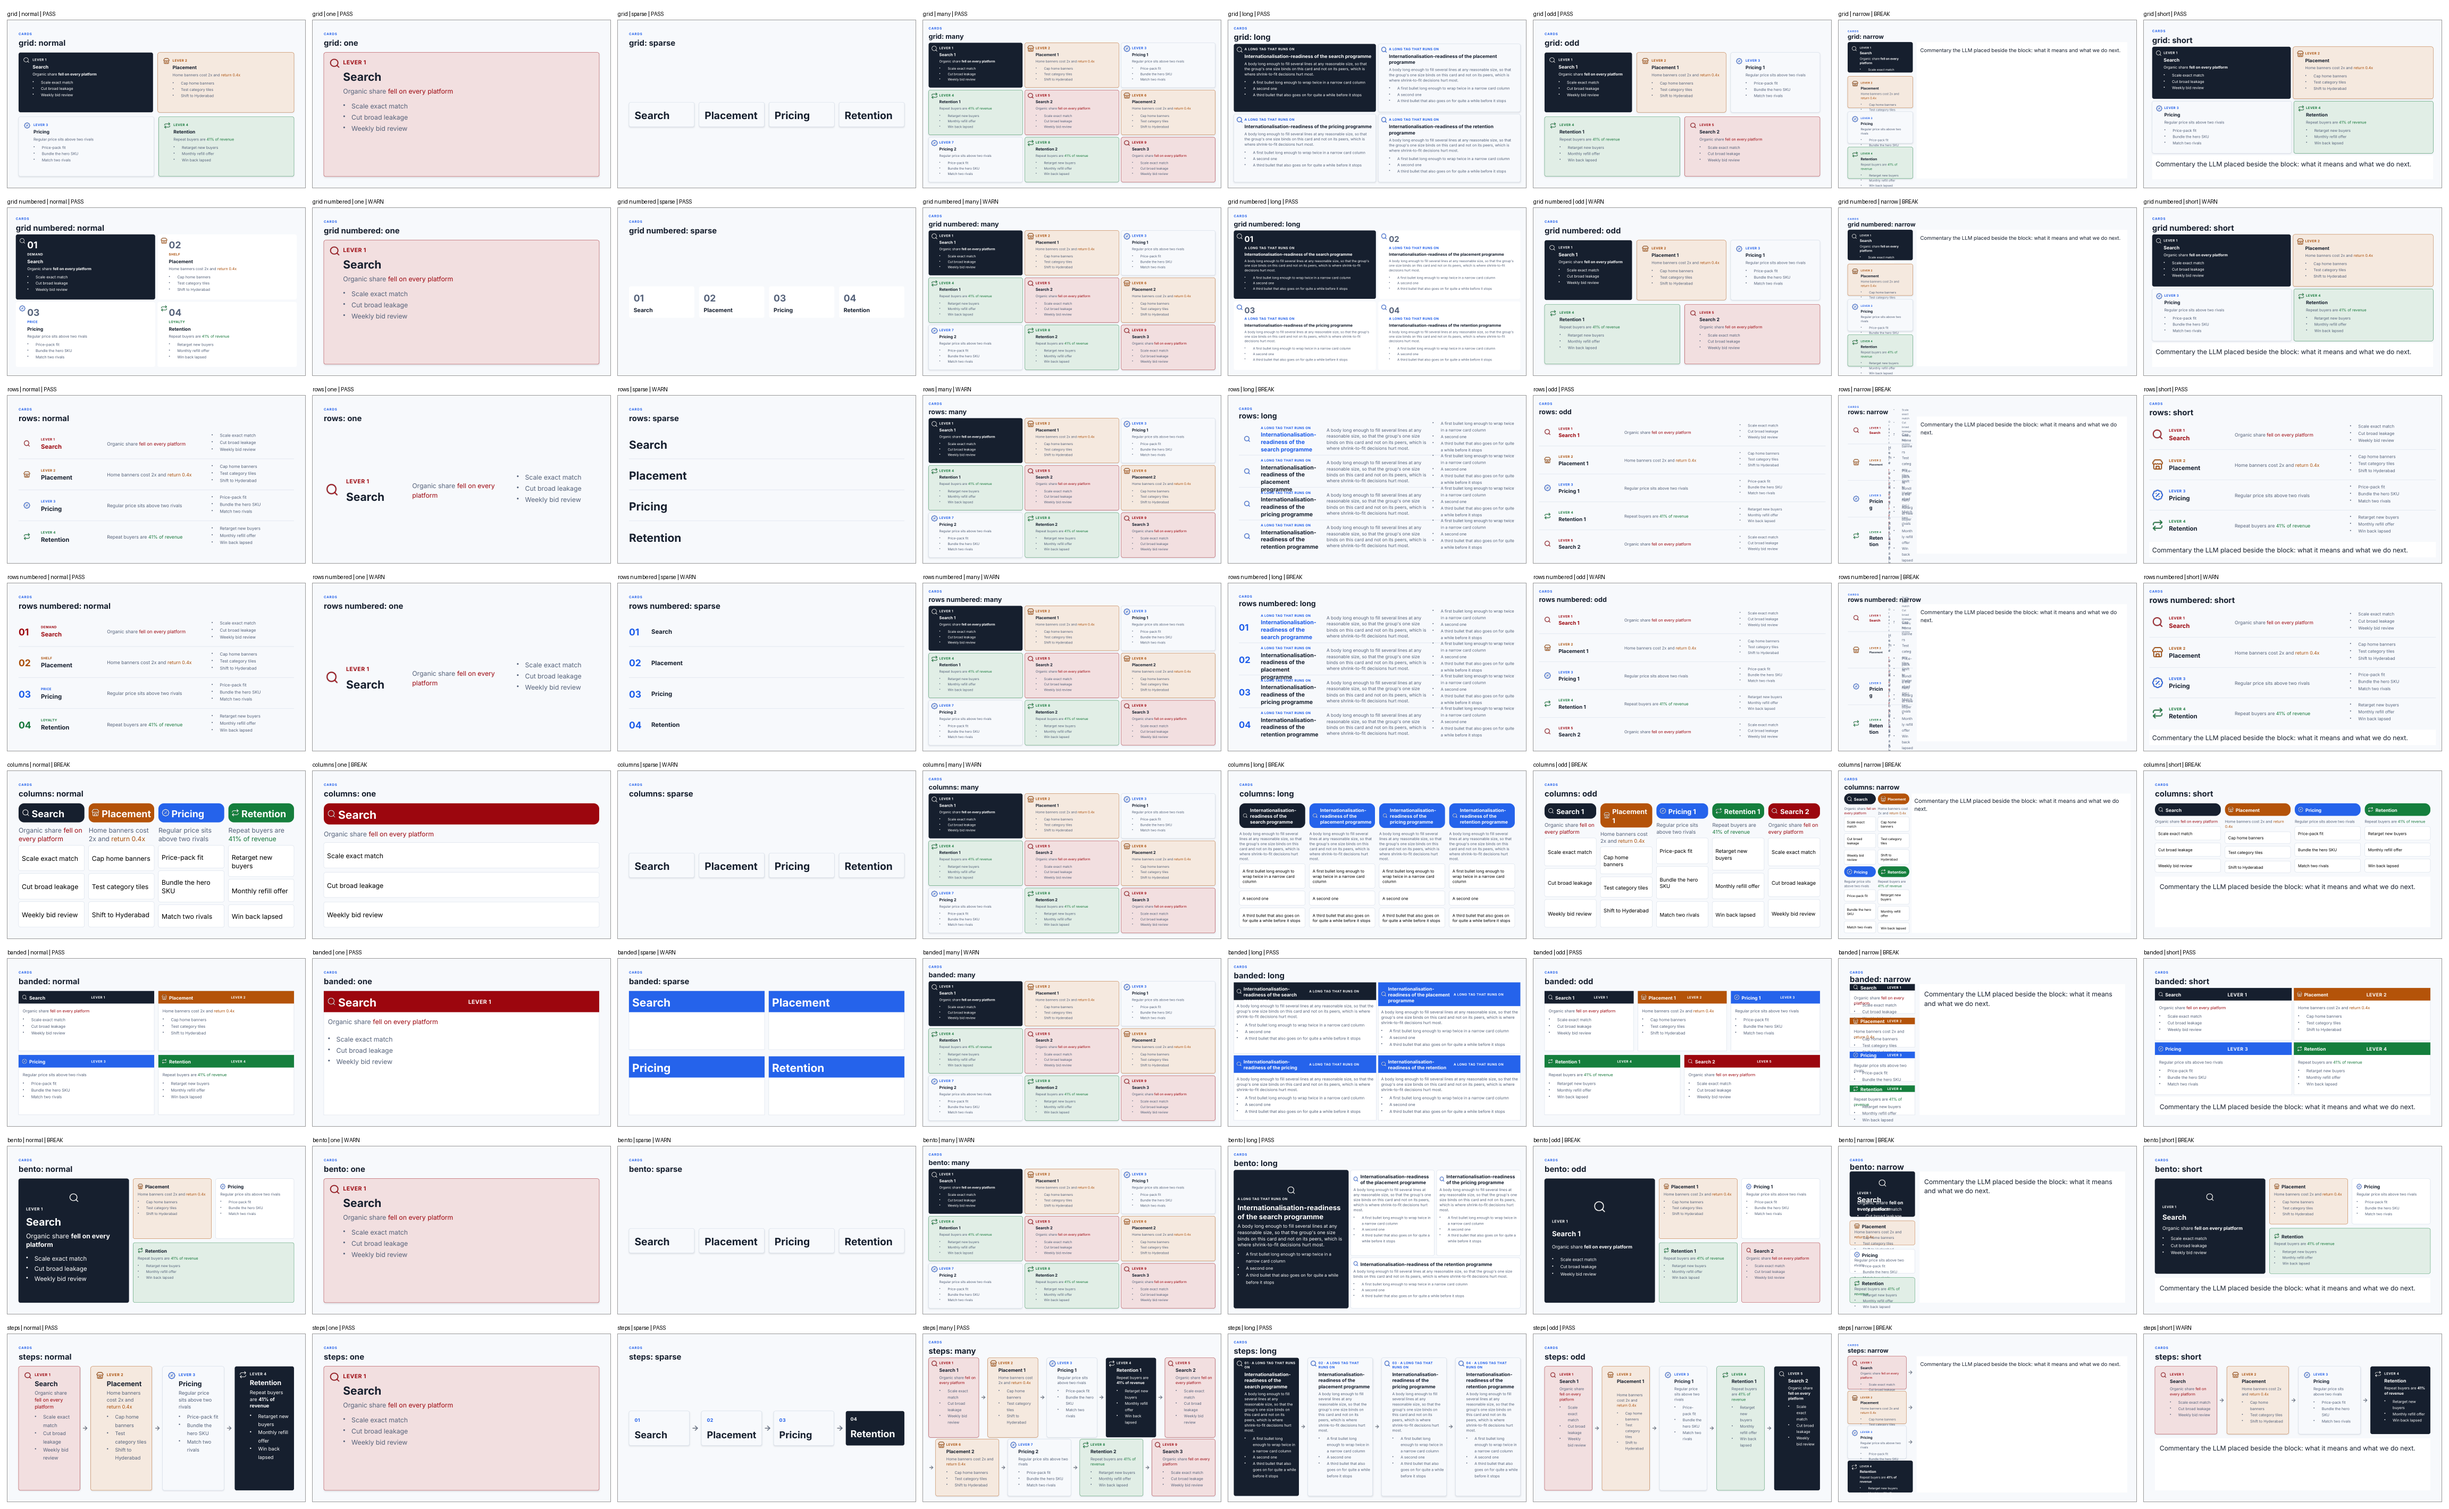
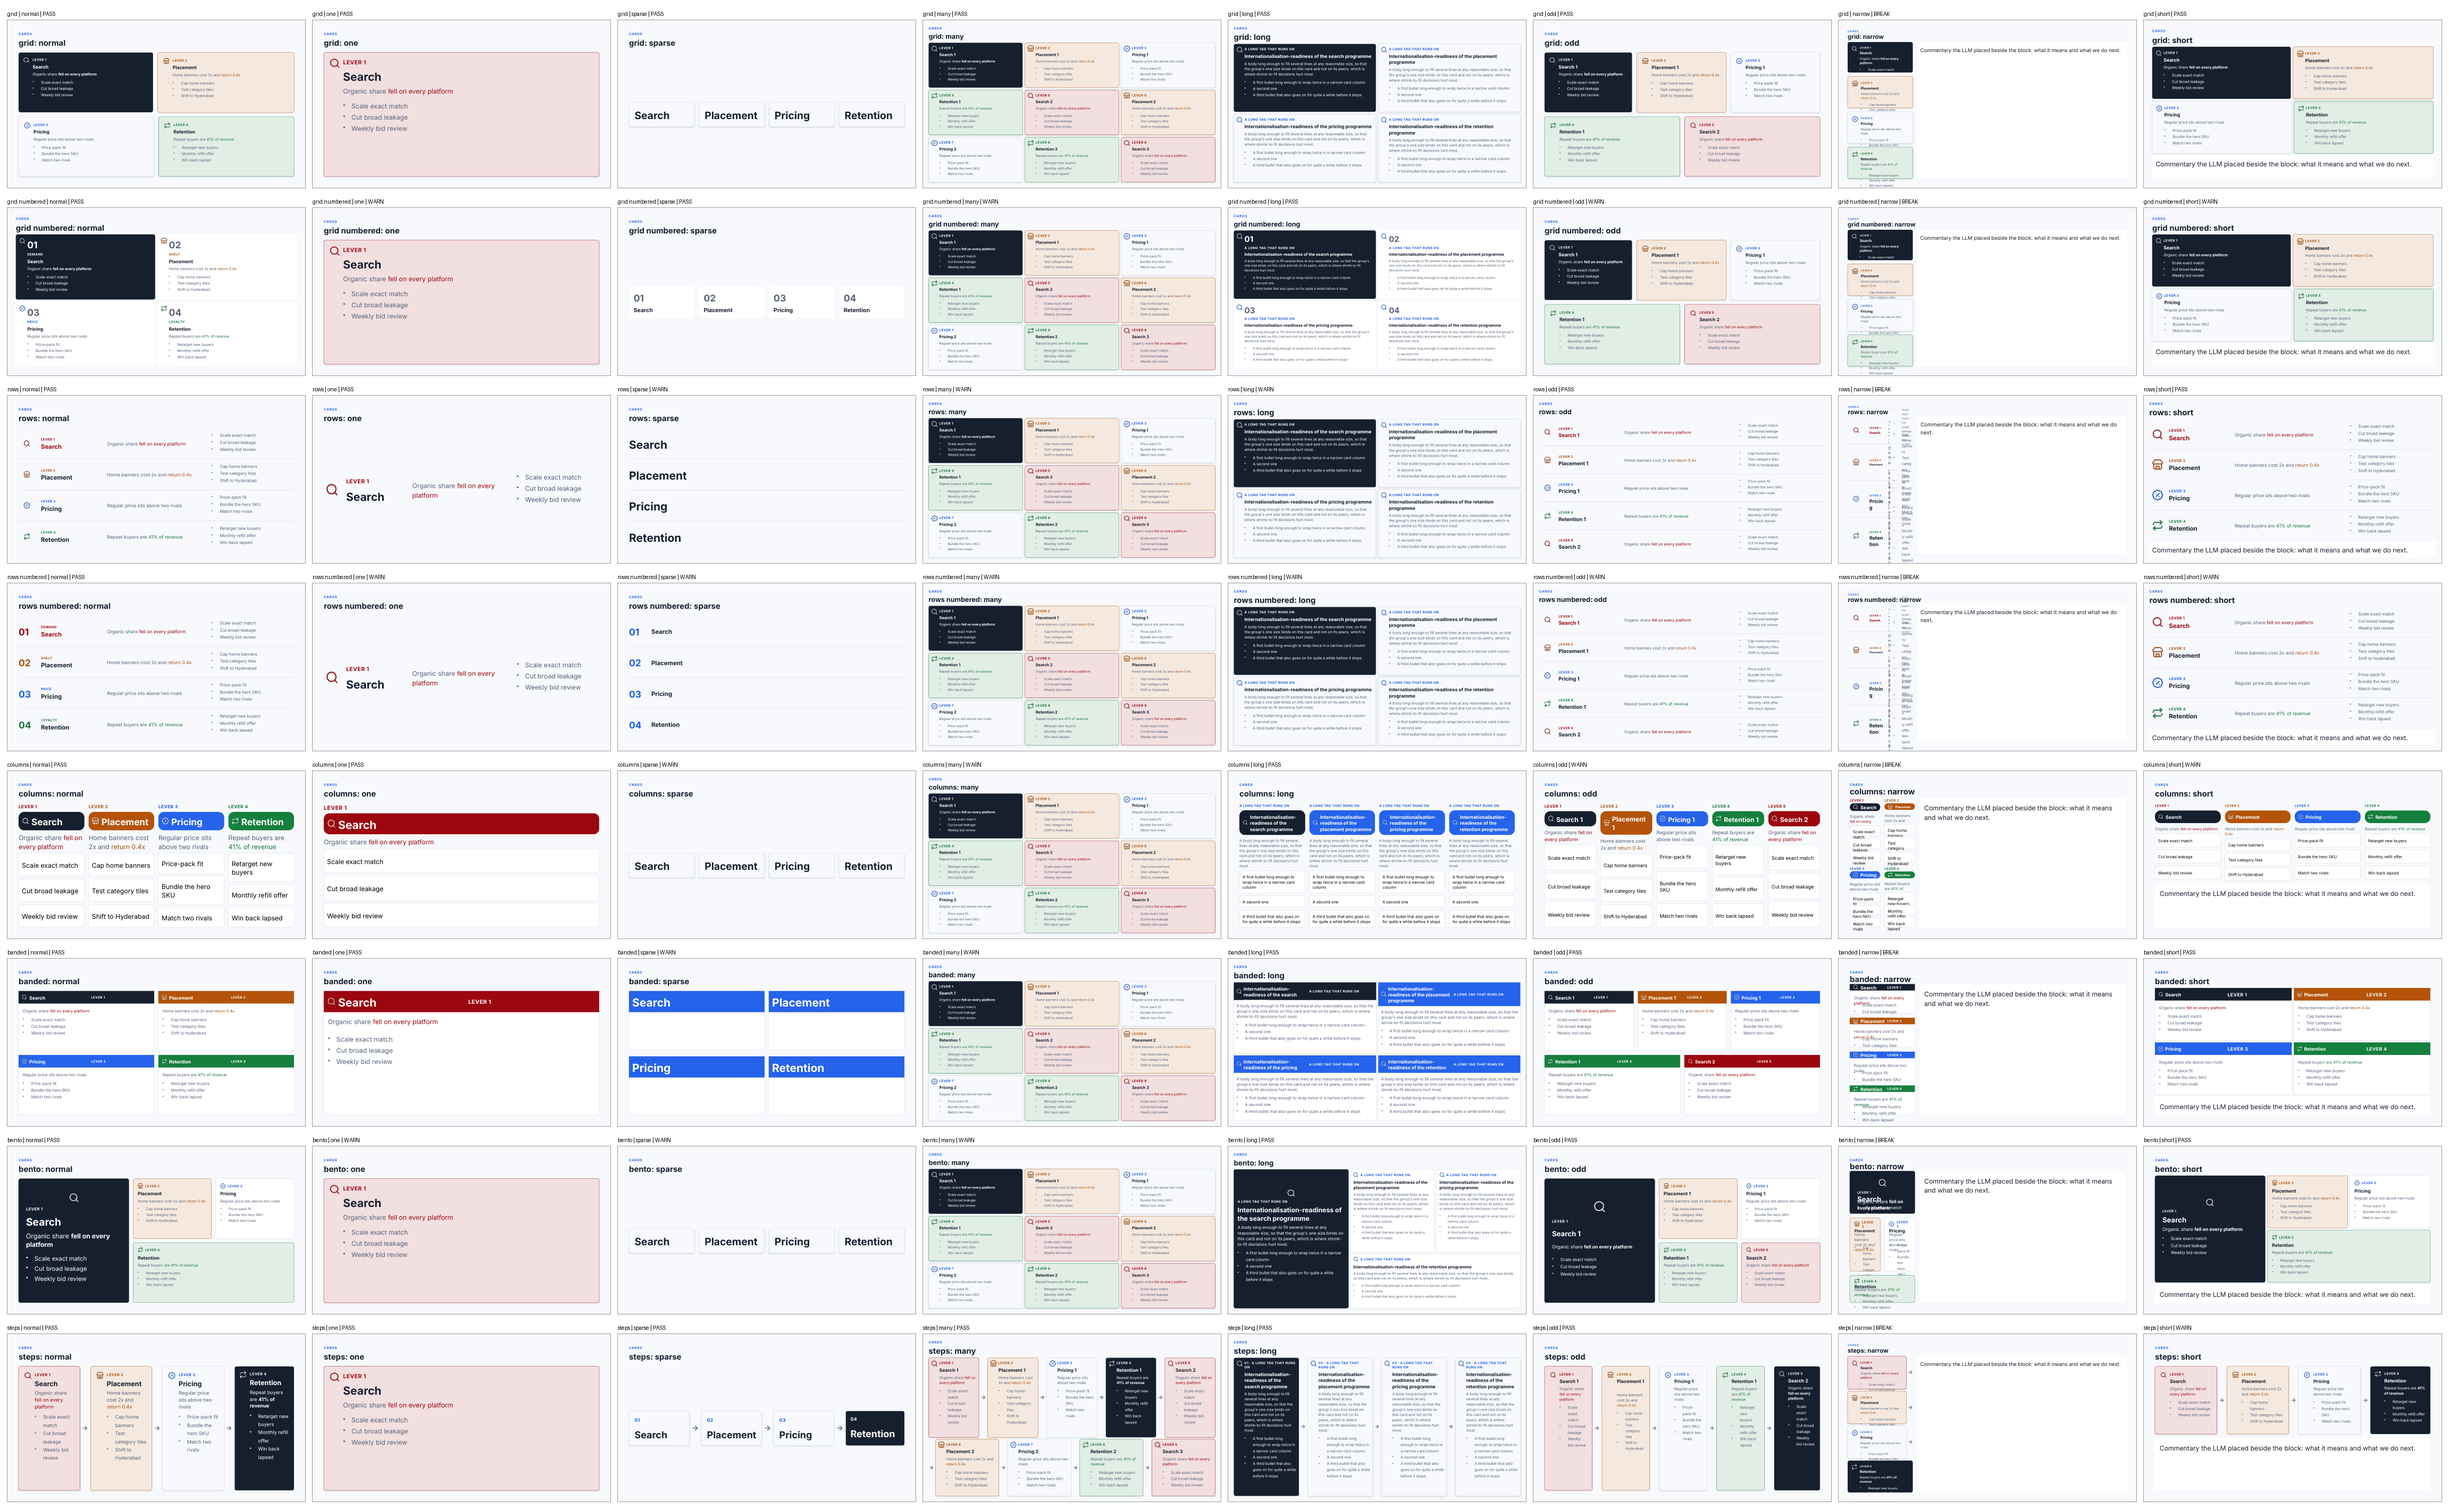
Cards: columns draw the tag; rows fall back to grid when their bullets cannot fit

diff --git a/presentation-pipeline/tests/unit/test_tile_groups.py b/presentation-pipeline/tests/unit/test_tile_groups.py
@@ -253,6 +253,31 @@ def test_card_columns_need_bullets():
     assert used(r, "nb") == "grid" and "NODE_VARIANT_UNMET" in codes(r)
 
 
+def _bulleted(n, chars, tag="DEMAND"):
+    return {"component_id": "many", "kind": "card_grid", "content_data": {"card_layout": "grid", "cards": [
+        {"title": f"T{i}", "tag": f"{tag}{'ABCDEFG'[i]}", "bullets": ["x" * chars] * 3} for i in range(n)]}}
+
+
+def test_card_columns_draw_the_tag():
+    xml = run('<CardGrid ref="levers" variant="columns"/>', LEVERS)["xml"]
+    for c in LEVERS["content_data"]["cards"]:
+        assert not c.get("tag") or c["tag"].upper() in xml
+
+
+@pytest.mark.parametrize("variant", ["rows", "rows numbered"])
+@pytest.mark.parametrize("n,chars,fits", [(3, 30, True), (4, 30, True), (3, 60, False), (4, 60, False), (6, 30, False)])
+def test_card_rows_fall_back_when_bullets_cannot_fit(variant, n, chars, fits):
+    r = run(f'<CardGrid ref="many" variant="{variant}"/>', _bulleted(n, chars))
+    assert used(r, "many") == (variant if fits else "grid") and r["ok"]
+    assert fits or "NODE_VARIANT_UNMET" in codes(r)
+
+
+def test_card_rows_without_bullets_always_fit():
+    cs = [{"title": f"T{i}", "body": "word " * 80} for i in range(6)]
+    plan_ = {"component_id": "many", "kind": "card_grid", "content_data": {"card_layout": "grid", "cards": cs}}
+    assert used(run('<CardGrid ref="many" variant="rows"/>', plan_), "many") == "rows"
+
+
 def test_card_rows_numbered():
     r = run('<CardGrid ref="nb" variant="rows numbered"/>', NO_BULLETS)
     assert used(r, "nb") == "rows numbered" and ">01<" in r["xml"] and ">03<" in r["xml"]

diff --git a/presentation-pipeline/src/compiler/nodes/cards.py b/presentation-pipeline/src/compiler/nodes/cards.py
@@ -141,6 +141,18 @@ def dense(comp: dict) -> bool:
     return bool(cs) and sum(text_len(c) for c in cs) / len(cs) > DENSE_CHARS
 
 
+# Card rows: the bullets sit in a 30% column at a fixed size, so they set a row's height; a body or title shrinks to fit
+# (measured 2026-11-04: body-only rows hold to 367 characters at 6 rows; 6 rows of 30-character bullets spill).
+ROW_BULLET_CHARS, ROW_LINE_PX, ROW_PAD_PX, ROWS_PX = 40, 25, 20, 500
+
+
+def rows_fit(comp: dict) -> bool:
+    """The rows' padding and bullet lines fit a full slide body; a smaller box can still break (the box is unknown here)."""
+    cs = cards_of(comp)
+    lines = sum(-(-len(b) // ROW_BULLET_CHARS) for c in cs for b in _lines(c)[1])
+    return not lines or len(cs) * ROW_PAD_PX + lines * ROW_LINE_PX <= ROWS_PX
+
+
 # ── one card ──────────────────────────────────────────────────────────────────
 
 def _variant(comp: dict, i: int, asked: str | None, ref: str, flag) -> str:

diff --git a/presentation-pipeline/src/compiler/nodes/tile_groups.py b/presentation-pipeline/src/compiler/nodes/tile_groups.py
@@ -362,7 +362,8 @@ def card_item(comp: dict, i: int, name: str, box: dict, parts: dict, role: str, 
                       _card_text(title, 20, parts["title"], bold="true"))
         cells = [_stack("VStack", {"grow": "1", "justifyContent": "center", **parts["bullets"]},
                         _card_text(b, 17, {k: v for k, v in parts["body"].items() if k != "color"})) for b in cards._lines(c)[1]]
-        return _stack("VStack", {"id": f"card-{cid}-{i}", "alignItems": "stretch", **box}, pill,
+        return _stack("VStack", {"id": f"card-{cid}-{i}", "alignItems": "stretch", **box},
+                      _card_text(tag, 13, parts["tag"], bold="true", letterSpacing="1") if tag else None, pill,
                       _body(c, 16, parts["body"], tint), *cells)
     if name == "banded":
         _ink(parts["band"].get("backgroundColor", ""), parts, ("icon", "title", "tag"))

diff --git a/presentation-pipeline/src/compiler/nodes/spec.py b/presentation-pipeline/src/compiler/nodes/spec.py
@@ -183,6 +183,9 @@ def check(name: str, comp: dict) -> bool:
     if name == "no_own_numbers" and comp.get("kind") == "card_grid":
         from src.compiler.nodes import cards   # cards imports this module
         return cards.numbered_ok(comp)
+    if name == "rows_fit":
+        from src.compiler.nodes import cards   # cards imports this module
+        return cards.rows_fit(comp)
     if name in ("labels_short", "no_own_numbers"):
         from src.compiler.nodes import compose   # compose imports this module
         if name == "labels_short":

diff --git a/presentation-pipeline/docs/syntax-audit-2026-11-04.md b/presentation-pipeline/docs/syntax-audit-2026-11-04.md
@@ -394,6 +394,6 @@ The px rows include each slide's root (`w="1280" h="720"`). Saved slides are fro
 
 **Table variants (user, 2026-11-04).** `rows numbered`, `columns`, `banded`, `grid` and `grid numbered` are removed, so a person can edit tables by hand: only `native` is a real PowerPoint table ([table-variants.png](eval/syntax-audit/table-variants.png), [table-native-looks.png](eval/syntax-audit/table-native-looks.png)). `native`, `rows` and `ledger` remain; the removed names are aliases. The catalogue, stress and reach files above predate this.
 
-**Card variants (user, 2026-11-04).** Card `rail` is removed (the name draws `steps`); the timeline's `rail` is another drawing and stays. Card `bento` stays: its breaks were small cards dropping the `tag`, now drawn, and it holds from 500 px wide (400 px overlaps, `grid` only warns there; 280 px breaks every variant). Atomic cards stay rejected (§5). Flexbox placement needs no new syntax: `<HStack><Card ref w="40%"/><CardGrid ref cols="2"/></HStack>` compiles and loses no words, but its focus card gets no larger type and sits half empty, and 3 of 4 layouts spill on long cards, so it is the LLM's freedom, not bento's replacement. Measured over 8 variants x 8 cases: 30 pass, 19 warn (mostly a safe fallback), 15 break; 6 of the 15 are card `columns`, which never draws the `tag`. Open: `columns`, and `rows` on long text. Sheets: [card-variants.png](eval/syntax-audit/card-variants.png) (bento row before the fix), [bento-vs-flex.png](eval/syntax-audit/bento-vs-flex.png), [bento-after.png](eval/syntax-audit/bento-after.png).
+**Card variants (user, 2026-11-04).** Card `rail` is removed (the name draws `steps`); the timeline's `rail` is another drawing and stays. Card `bento` stays: its breaks were small cards dropping the `tag`, now drawn, and it holds from 500 px wide (400 px overlaps, `grid` only warns there; 280 px breaks every variant). Atomic cards stay rejected (§5). Flexbox placement needs no new syntax: `<HStack><Card ref w="40%"/><CardGrid ref cols="2"/></HStack>` compiles and loses no words, but its focus card gets no larger type and sits half empty, and 3 of 4 layouts spill on long cards, so it is the LLM's freedom, not bento's replacement. Card `columns` now draws the `tag`. Card `rows` and `rows numbered` fall back to `grid` when their padding and bullet lines would not fit (`cards.rows_fit`): bullets set the height, since rows with a body alone held to 367 characters at 6 rows. Measured over 8 variants x 8 cases: 33 pass, 23 warn, 8 break (27 / 19 / 18 at the start of this review); all 8 breaks are the 280 px box. Open: `grid` itself spills on 5 or 6 cards with three bullets each, the fallback's own limit; a long tag on one `columns` card drops its pill below its peers; `rows_fit` assumes a full slide body, so a smaller box can still break. Sheets: [card-variants.png](eval/syntax-audit/card-variants.png), [rows-columns-after.png](eval/syntax-audit/rows-columns-after.png), [bento-vs-flex.png](eval/syntax-audit/bento-vs-flex.png), [bento-after.png](eval/syntax-audit/bento-after.png).
 
 **After these,** the paid same-plan run (`scripts/composition_paid.py`) answers what this audit can't: does the LLM pick variants at all? In saved tile-tag slides only 2 of 37 group tags named one.
